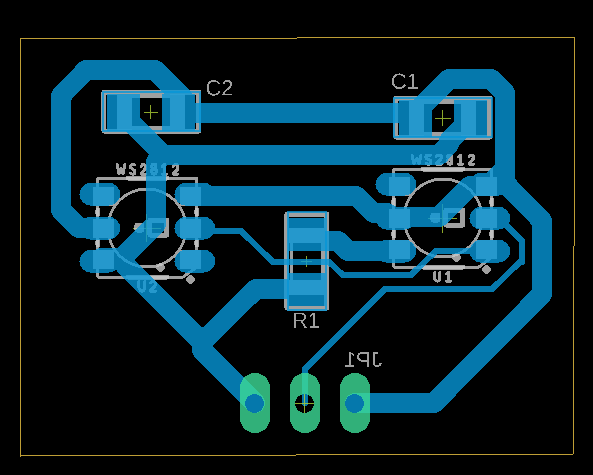
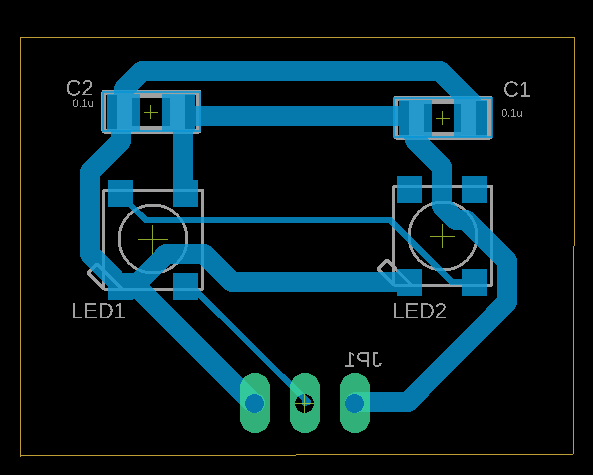
Update tech

diff --git a/PK_MUV/Tech/README.md b/PK_MUV/Tech/README.md
@@ -43,7 +43,7 @@ The original Eagle files are in the [Eagle files](https://github.com/emmapa/prox
 | ------------- | ------------- |
 | <p align="center"><img src="images/PK_MUV_L1_top_view.png"></p>  | <p align="center"><img src="images/PK_MUV_L1_bottom_view.png"></p> |
 | <p align="center"><img src="images/PK_MUV_L1_top_clean.jpg"></p>  | <p align="center"><img src="images/PK_MUV_L1_bottom_clean.jpg"></p>|
-| The header is THT, pitch 2.54mm. <br> JP1:  | Resistors and capacitors are smd 1206. <br>C1: <br> R1: <br> U1: WS2812 Led|
+| The header is THT, pitch 2.54mm. <br> JP1: 1x04 male header 90° | Resistors and capacitors are smd 1206. <br>C1: 0.1uF <br> R1: 0 Ohm<br> U1: WS2812 Led|
 
 #### PK_MUV_L2 pcb
 
@@ -51,7 +51,7 @@ The original Eagle files are in the [Eagle files](https://github.com/emmapa/prox
 | ------------- | ------------- |
 | <p align="center"><img src="images/PK_MUV_L2_top_view.png"></p>  | <p align="center"><img src="images/PK_MUV_L2_bottom_view.png"></p> |
 | <p align="center"><img src="images/PK_MUV_L2_top_clean.jpg"></p>  | <p align="center"><img src="images/PK_MUV_L2_bottom_clean.jpg"></p>|
-| The header is THT, pitch 2.54mm. <br> JP1:   | Resistors and capacitors are smd 1206. <br>C1=C2: <br> R1: <br> U1=U2: WS2812 Led |
+| The header is THT, pitch 2.54mm. <br> JP1: 1x03 male header 90°   | Resistors and capacitors are smd 1206. <br>C1=C2: 0.1uF <br> R1: 0 Ohm <br> U1=U2: WS2812 Led |
 
 #### PK_MUV_sw pcb
 
@@ -59,12 +59,11 @@ The original Eagle files are in the [Eagle files](https://github.com/emmapa/prox
 | ------------- | ------------- |
 | <p align="center"><img src="images/PK_MUV_sw_top_view.png"></p>  | <p align="center"><img src="images/PK_MUV_sw_bottom_view.png"></p> |
 | <p align="center"><img src="images/PK_MUV_sw_top_clean.jpg"></p>  | <p align="center"><img src="images/PK_MUV_sw_bottom_clean.jpg"></p>|
-| The header is smd, pitch 2.54mm <br> JP1: <br>| sw1 = sw2 :<br> |
+| sw1 = sw2: Tactile Switch THT | The header is smd, pitch 2.54mm <br> JP1: 2x2 male header<br> |
 
 #### Battery cable
 
 #### Assembly note
-
 
 #### BOM notes
 Many items in the BOM can be bought only in minimum amount, when you actually are going to use one or two component. The total cost is therefore expressed as:

diff --git a/PK_MUV/README.md b/PK_MUV/README.md
@@ -30,7 +30,7 @@ The kit includes:
 
 
 ### Connect the PK_MUV to the local WiFi
-Turn on the PK_MUV (ON/OFF switch). If the kit is not connected to the WiFi, the Config Led is on/blue, the kit is ready to be connected and it create a network named MUV.
+Turn on the PK_MUV (ON/OFF switch). If the kit is not connected to the WiFi, the Config Led is on/blue, the kit is ready to be connected and it creates a network named MUV.
 At this point you need a smartphone/tablet or computer, join the network MUV.
 
 
